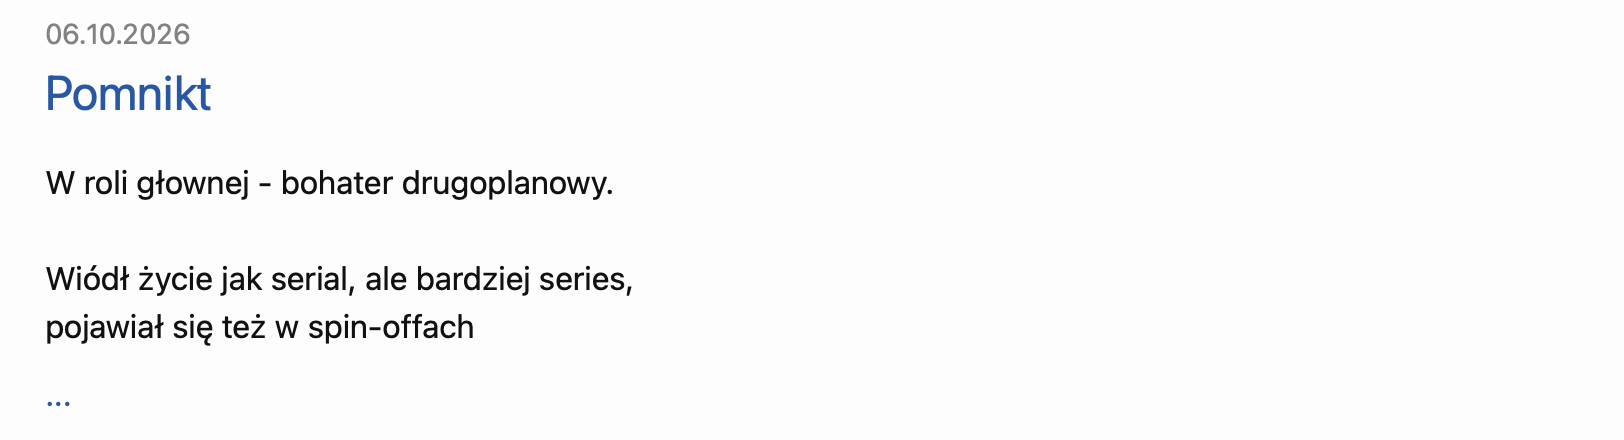
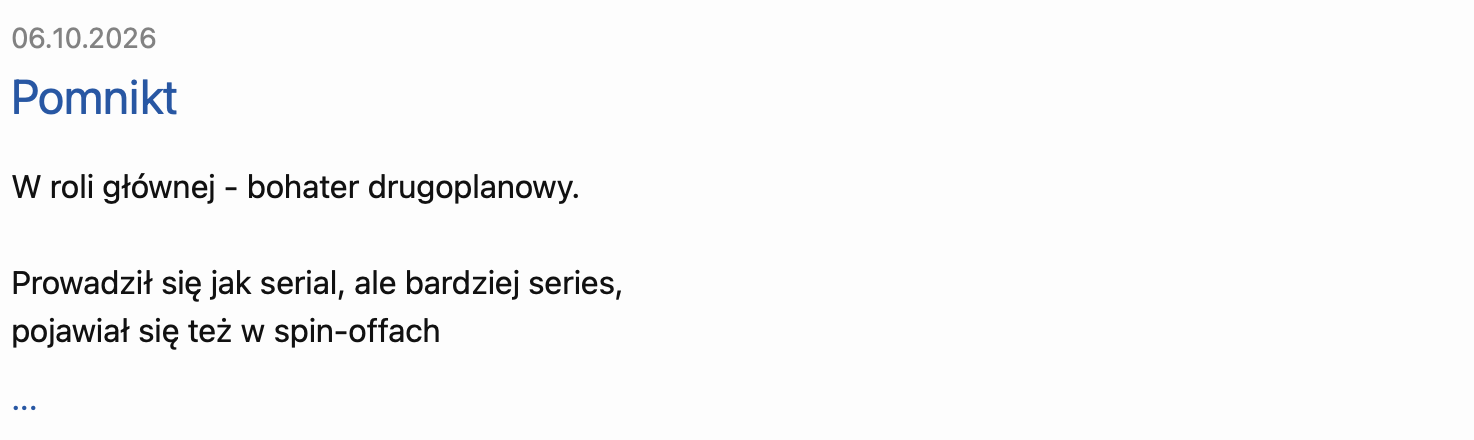
fix typos

diff --git a/_posts/2026-10-06-pomnikt.md b/_posts/2026-10-06-pomnikt.md
@@ -6,12 +6,12 @@ date: 2026-10-06
 image:
   path: /assets/images/pomnikt.png
   alt: Okładka wiersza Pomnikt
-excerpt: "W roli głownej - bohater drugoplanowy.<br>
+excerpt: "W roli głównej - bohater drugoplanowy.<br>
 <br>
-Wiódł życie jak serial, ale bardziej series,<br>
+Prowadził się jak serial, ale bardziej series,<br>
 pojawiał się też w spin-offach"
 ---
-W roli głownej - bohater drugoplanowy.<br>
+W roli głównej - bohater drugoplanowy.<br>
 <br>
 Prowadził się jak serial, ale bardziej series,<br>
 pojawiał się też w spin-offach<br>
